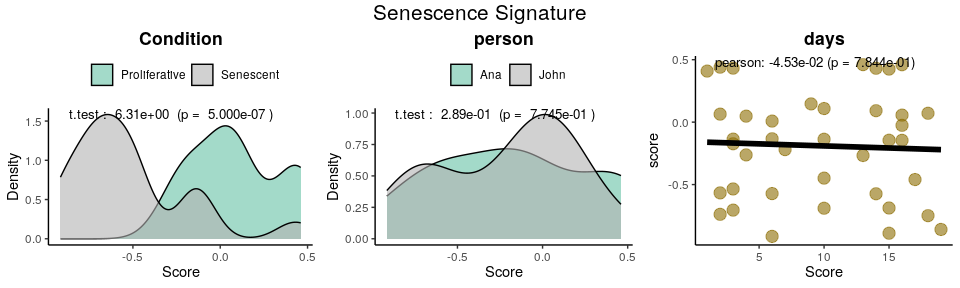
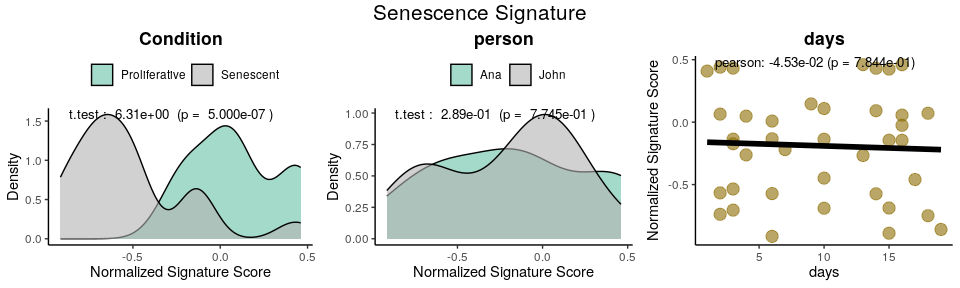
fix label score in variable association plots

diff --git a/README.md b/README.md
@@ -612,9 +612,9 @@ PlotScores(data = counts_example,
 
 To compare various metrics across different condition combinations,
 violin plots may not always be the best choice. In such cases, users can
-set \\code{method = “all”} to generate a summary heatmap. The function
-will return one heatmap per gene set, with rows corresponding to all
-possible combinations of values in the \\code{GroupingVariable}.
+set`method = "all"` to generate a summary heatmap. The function will
+return one heatmap per gene set, with rows corresponding to all possible
+combinations of values in the `GroupingVariable`.
 
 ``` r
 PlotScores(data = counts_example, 
@@ -723,7 +723,7 @@ df_Scores_logmedian_BidirectSen$days <- days
 ```
 
 ``` r
-VariableAssociation(df=df_Scores_logmedian_Sen, c("Condition","person","days"), target_var="score", xlab="Score",
+VariableAssociation(df=df_Scores_logmedian_Sen, c("Condition","person","days"), target_var="score", targetvar_lab ="Normalized Signature Score",
                             discrete_colors = NULL, continuous_color = "#8C6D03",
                             color_palette = "Set2",
                             sizeannot=3.5, ncol=NULL, nrow=1,
@@ -736,7 +736,7 @@ VariableAssociation(df=df_Scores_logmedian_Sen, c("Condition","person","days"), 
 <img src="man/figures/README-variableassoc2-1.png" width="100%" />
 
 ``` r
-VariableAssociation(df=df_Scores_logmedian_BidirectSen, c("Condition","person","days"), target_var="score", xlab="Score",
+VariableAssociation(df=df_Scores_logmedian_BidirectSen, c("Condition","person","days"), target_var="score", targetvar_lab="Normalized Signature Score",
                             discrete_colors = NULL, continuous_color = "#8C6D03",
                             color_palette = "Set2",
                             sizeannot=3.5, ncol=NULL, nrow=1,
